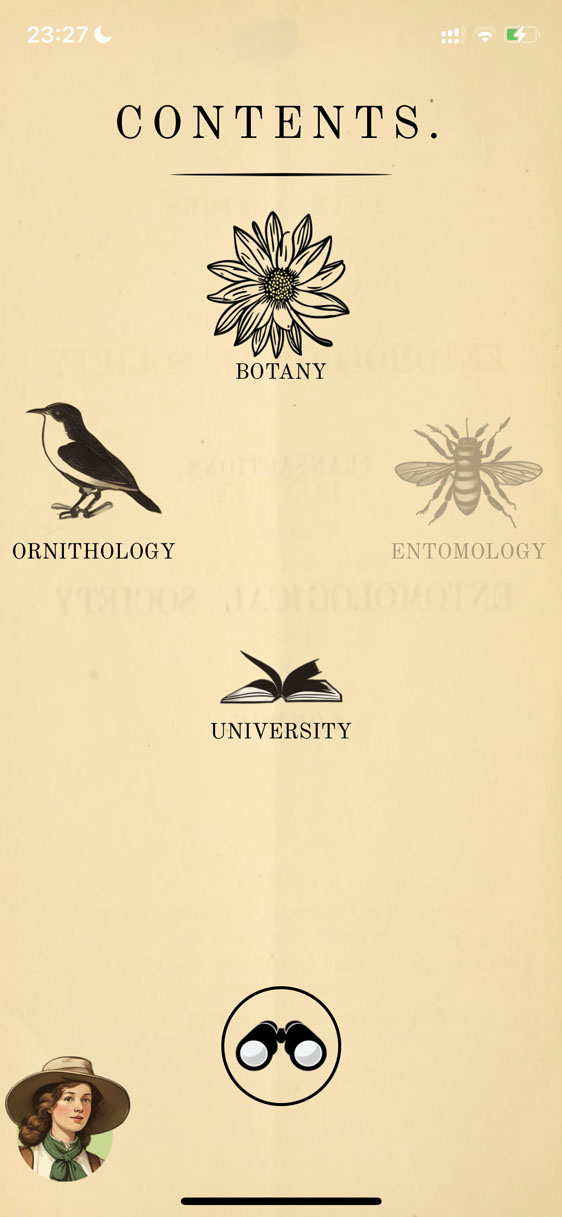
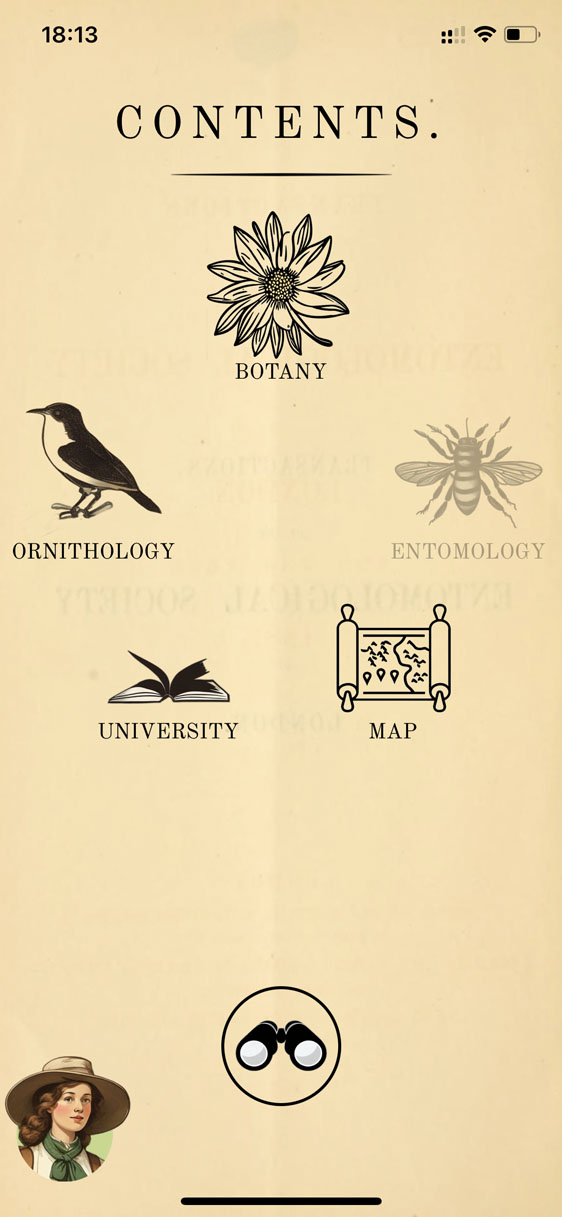
Update screens in README.md

diff --git a/README.md b/README.md
@@ -19,6 +19,10 @@ This project experiments with generative AI to create an engaging and educationa
 
 <img src="resources/screens/thumbnails/quiz_1.jpg" width="32%"> <img src="resources/screens/thumbnails/quiz_2.jpg" width="32%"> <img src="resources/screens/thumbnails/quiz_3.jpg" width="32%">
 
+<p align="center">
+<img src="resources/screens/thumbnails/map.jpg" width="32%">
+</p>
+
 ## Install
 
 This project is still in development, and not available on App Stores yet.
